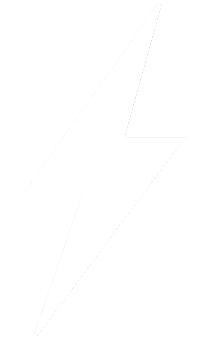
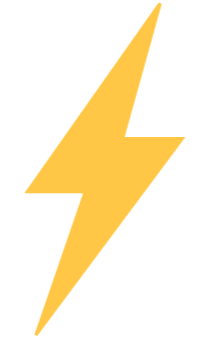
added the sticker ⚡

Changed region(s): [[0.1188, 0.0, 0.9208, 0.9687]]

diff --git a/styles.css b/styles.css
@@ -122,6 +122,19 @@ body {
     z-index: 1;
 }
 
+.sticker-1 {
+    background-image: url("images/aesthetic 1.png");
+    background-size: contain;
+    background-repeat: no-repeat;
+    width: 47vw;
+    height: 10vh;
+    position: absolute;
+    left: 35vw;
+    top: 37%;
+    transform: translateY(-40%);
+    z-index: 1;
+}
+
 .text {
     letter-spacing: .5rem;
     font-size: .8rem;

diff --git a/index.html b/index.html
@@ -23,6 +23,7 @@
         <div class="vector-1"></div>
         <div class="me-img"></div>
         <div class="name-txt"></div>
+        <div class="sticker-1"></div>
         <div class="text">
             <div class="er">UI/UX DESIGNER</div>
             <div class="dot">•</div>
